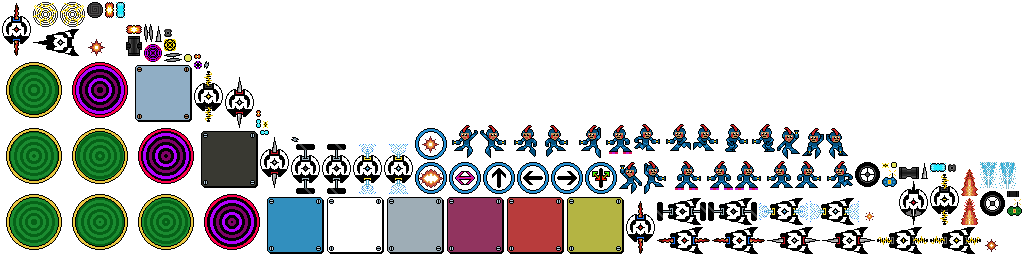
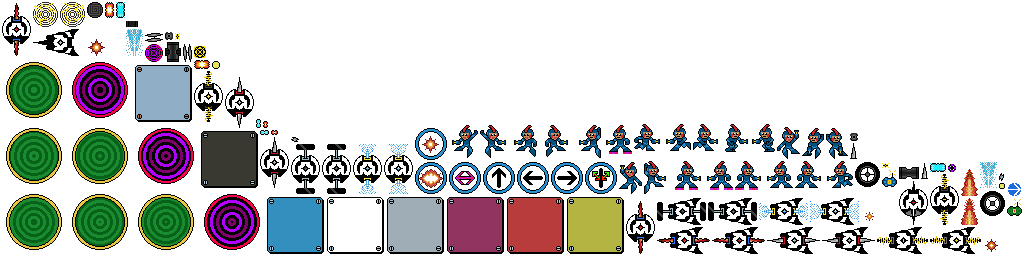
attempting to overlay implemented level selection cursor class object over level select screen

diff --git a/core/src/com/udacity/gamedev/gigagal/LevelSelectScreen.java b/core/src/com/udacity/gamedev/gigagal/LevelSelectScreen.java
@@ -9,6 +9,7 @@ import com.badlogic.gdx.graphics.g2d.SpriteBatch;
 import com.badlogic.gdx.utils.Align;
 import com.badlogic.gdx.utils.Array;
 import com.badlogic.gdx.utils.viewport.ExtendViewport;
+import com.udacity.gamedev.gigagal.overlays.LevelSelectOverlay;
 import com.udacity.gamedev.gigagal.util.Assets;
 import com.udacity.gamedev.gigagal.util.Constants;
 
@@ -35,6 +36,7 @@ public final class LevelSelectScreen extends ScreenAdapter {
     private float margin;
     private ListIterator<String> iterator;
     private String levelName;
+    private LevelSelectOverlay overlay;
 
     // default ctor
     public LevelSelectScreen() {
@@ -52,6 +54,7 @@ public final class LevelSelectScreen extends ScreenAdapter {
     public void show() {
         // : When you're done testing, use onMobile() turn off the controls when not on a mobile device
         // onMobile();
+        overlay = new LevelSelectOverlay();
         levelNumber = 0;
         batch = new SpriteBatch();
         completedLevels = new Array<String>();
@@ -65,6 +68,7 @@ public final class LevelSelectScreen extends ScreenAdapter {
     @Override
     public void resize(int width, int height) {
         viewport.update(width, height, true);
+        overlay.getViewport().update(width, height, true);
     }
 
     @Override
@@ -78,7 +82,6 @@ public final class LevelSelectScreen extends ScreenAdapter {
     @Override
     public void render(float delta) {
         viewport.apply();
-        batch.setProjectionMatrix(viewport.getCamera().combined);
         batch.begin();
 
         Gdx.gl.glClearColor(
@@ -96,14 +99,13 @@ public final class LevelSelectScreen extends ScreenAdapter {
             margin += 15;
         }
 
-
-
         while (iterator.hasNext()) {
             iterator.next();
         }
 
         margin = 0;
-
         batch.end();
+
+        overlay.render(batch);
     }
 }

diff --git a/core/src/com/udacity/gamedev/gigagal/overlays/LevelSelectOverlay.java b/core/src/com/udacity/gamedev/gigagal/overlays/LevelSelectOverlay.java
@@ -1,5 +1,37 @@
 package com.udacity.gamedev.gigagal.overlays;
 
-public class LevelSelectOverlay {
+import com.badlogic.gdx.graphics.g2d.SpriteBatch;
+import com.badlogic.gdx.math.Vector2;
+import com.badlogic.gdx.utils.viewport.ExtendViewport;
+import com.badlogic.gdx.utils.viewport.Viewport;
+import com.udacity.gamedev.gigagal.entities.Cursor;
+import com.udacity.gamedev.gigagal.util.Constants;
 
+//immutable
+public final class LevelSelectOverlay {
+
+    // fields
+    private ExtendViewport viewport;
+    private final Cursor cursor;
+
+    // ctor
+    public LevelSelectOverlay() {
+        this.viewport = new ExtendViewport(Constants.WORLD_SIZE, Constants.WORLD_SIZE);
+        cursor = new Cursor(new Vector2(viewport.getWorldWidth() / 7, viewport.getWorldHeight() / 2.5f));
+    }
+
+    public void init() {
+    }
+
+    public void render(SpriteBatch batch) {
+
+        viewport.apply();
+        batch.setProjectionMatrix(viewport.getCamera().combined);
+        batch.begin();
+        cursor.render(batch);
+        batch.end();
+
+    }
+
+    public ExtendViewport getViewport() { return viewport; }
 }

diff --git a/core/src/com/udacity/gamedev/gigagal/entities/Cursor.java b/core/src/com/udacity/gamedev/gigagal/entities/Cursor.java
@@ -1,0 +1,29 @@
+package com.udacity.gamedev.gigagal.entities;
+
+import com.badlogic.gdx.graphics.g2d.SpriteBatch;
+import com.badlogic.gdx.graphics.g2d.TextureRegion;
+import com.badlogic.gdx.math.Vector2;
+import com.udacity.gamedev.gigagal.util.Assets;
+import com.udacity.gamedev.gigagal.util.Constants;
+import com.udacity.gamedev.gigagal.util.Utils;
+
+public class Cursor {
+
+
+    // fields
+    private Vector2 position;
+
+    // ctor
+    public Cursor(Vector2 position) {
+        this.position = position;
+    }
+
+    public void render(SpriteBatch batch) {
+        Utils.drawTextureRegion(batch,
+                Assets.getInstance().getOnscreenControlsAssets().selectionCursor,
+                position.x,
+                position.y);
+    }
+
+    public final Vector2 getPosition() { return position; }
+}

diff --git a/core/src/com/udacity/gamedev/gigagal/util/Assets.java b/core/src/com/udacity/gamedev/gigagal/util/Assets.java
@@ -558,6 +558,7 @@ public final class Assets implements Disposable, AssetErrorListener {
         public final AtlasRegion jump;
         public final AtlasRegion hover;
         public final AtlasRegion ricochet;
+        public final AtlasRegion selectionCursor;
 
         public OnscreenControlsAssets(TextureAtlas atlas) {
             moveRight = atlas.findRegion(Constants.MOVE_RIGHT_BUTTON);
@@ -567,6 +568,7 @@ public final class Assets implements Disposable, AssetErrorListener {
             jump = atlas.findRegion(Constants.JUMP_BUTTON);
             hover = atlas.findRegion(Constants.HOVER_BUTTON);
             ricochet = atlas.findRegion(Constants.RICOCHET_BUTTON);
+            selectionCursor = atlas.findRegion(Constants.SELECTION_CURSOR);
         }
     }
 

diff --git a/core/src/com/udacity/gamedev/gigagal/util/Constants.java b/core/src/com/udacity/gamedev/gigagal/util/Constants.java
@@ -323,6 +323,7 @@ public final class Constants {
     public static final String JUMP_BUTTON = "button-jump";
     public static final String HOVER_BUTTON = "button-hover";
     public static final String RICOCHET_BUTTON = "button-ricochet";
+    public static final String SELECTION_CURSOR = "selection-cursor";
 
     // Victory/Game Over screens
     public static final float LEVEL_END_DURATION = 2;

diff --git a/core/src/com/udacity/gamedev/gigagal/GigaGalGame.java b/core/src/com/udacity/gamedev/gigagal/GigaGalGame.java
@@ -11,6 +11,6 @@ public final class GigaGalGame extends Game {
     @Override
     public void create() {
         setScreen(new LevelSelectScreen());
-        setScreen(new GameplayScreen(3));
+       // setScreen(new GameplayScreen(3));
     }
 }
